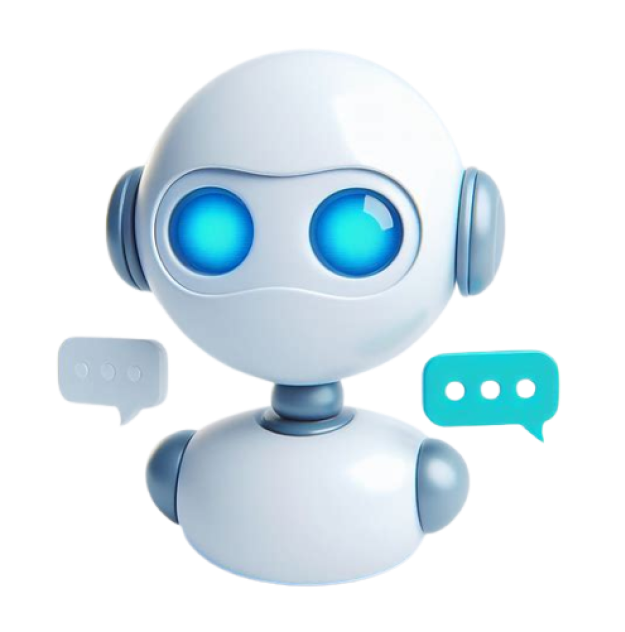
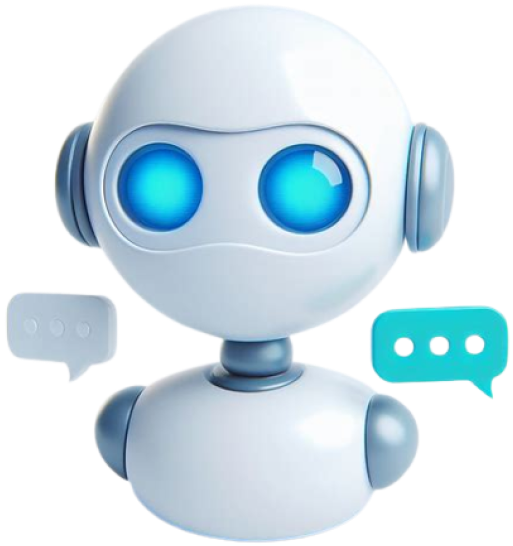
finished try it section

Changed region(s): [[0.0, 0.0, 0.9981, 0.9963]]

diff --git a/src/sections/TryIt.jsx b/src/sections/TryIt.jsx
@@ -3,7 +3,7 @@ import { tryMessages } from "../constants";
 import { send } from "../assets/icons";
 const TryIt = () => {
   return (
-    <div className="flex items-center max-md:flex-col">
+    <div className="flex items-end gap-5 max-xl:flex-col max-xl:items-center">
       <div className="flex flex-col gap-[40px]">
         <div className="flex flex-col gap-[11px]">
           <h3 className="text-[40px] text-white font-semibold leading-[120%]">
@@ -14,14 +14,14 @@ const TryIt = () => {
             EchoBot a try is just a click away. Here's what awaits you:
           </p>
         </div>
-        <div className="flex flex-col justify-between bg-white w-[685px] h-[474px] rounded-[19.5px] pt-[32px]">
+        <div className="flex flex-col justify-between bg-white max-w-[685px] h-[474px] rounded-[19.5px] pt-[32px]">
           <div className="px-8">
             {tryMessages.map((value) => (
               <div
                 key={value.message}
                 className={`${
                   value.user === "echobot" ? "bg-[#F5F5F5]" : "bg-white"
-                } text-[18px] font-normal leading-[150%] pl-5 py-4 pr-20 rounded-[6.5px]`}
+                } text-[18px] font-normal leading-[150%] pl-5 py-4 pr-20 max-sm:pr-5 max-sm:text-[16px] rounded-[6.5px]`}
               >
                 {value.message}
               </div>
@@ -47,7 +47,7 @@ const TryIt = () => {
         alt="White Robot"
         width={300}
         height={300}
-        className="w-[590px] h-[631px] self-end"
+        className="w-[450px] h-[550px]"
       />
     </div>
   );

diff --git a/src/sections/PowerOfEchobot.jsx b/src/sections/PowerOfEchobot.jsx
@@ -16,7 +16,7 @@ const PowerOfEchobot = () => {
         {powerOfEchobot.map((value, index) => (
           <div
             key={value.title}
-            className="flex md:odd:flex-row-reverse max-md:flex-col gap-[60px] items-center"
+            className="flex xl:odd:flex-row-reverse max-xl:flex-col gap-[60px] items-center"
           >
             <div className="flex flex-col gap-[38px] max-w-[569px]">
               <div className="flex flex-col w-full gap-[16px]">

diff --git a/src/index.css b/src/index.css
@@ -28,7 +28,7 @@ body {
   }
 
   .poe-nth {
-    @apply md:odd:flex-row-reverse max-md:flex-col;
+    @apply md:odd:flex-row-reverse max-xl:flex-col;
   }
 }
 @layer utilities {
